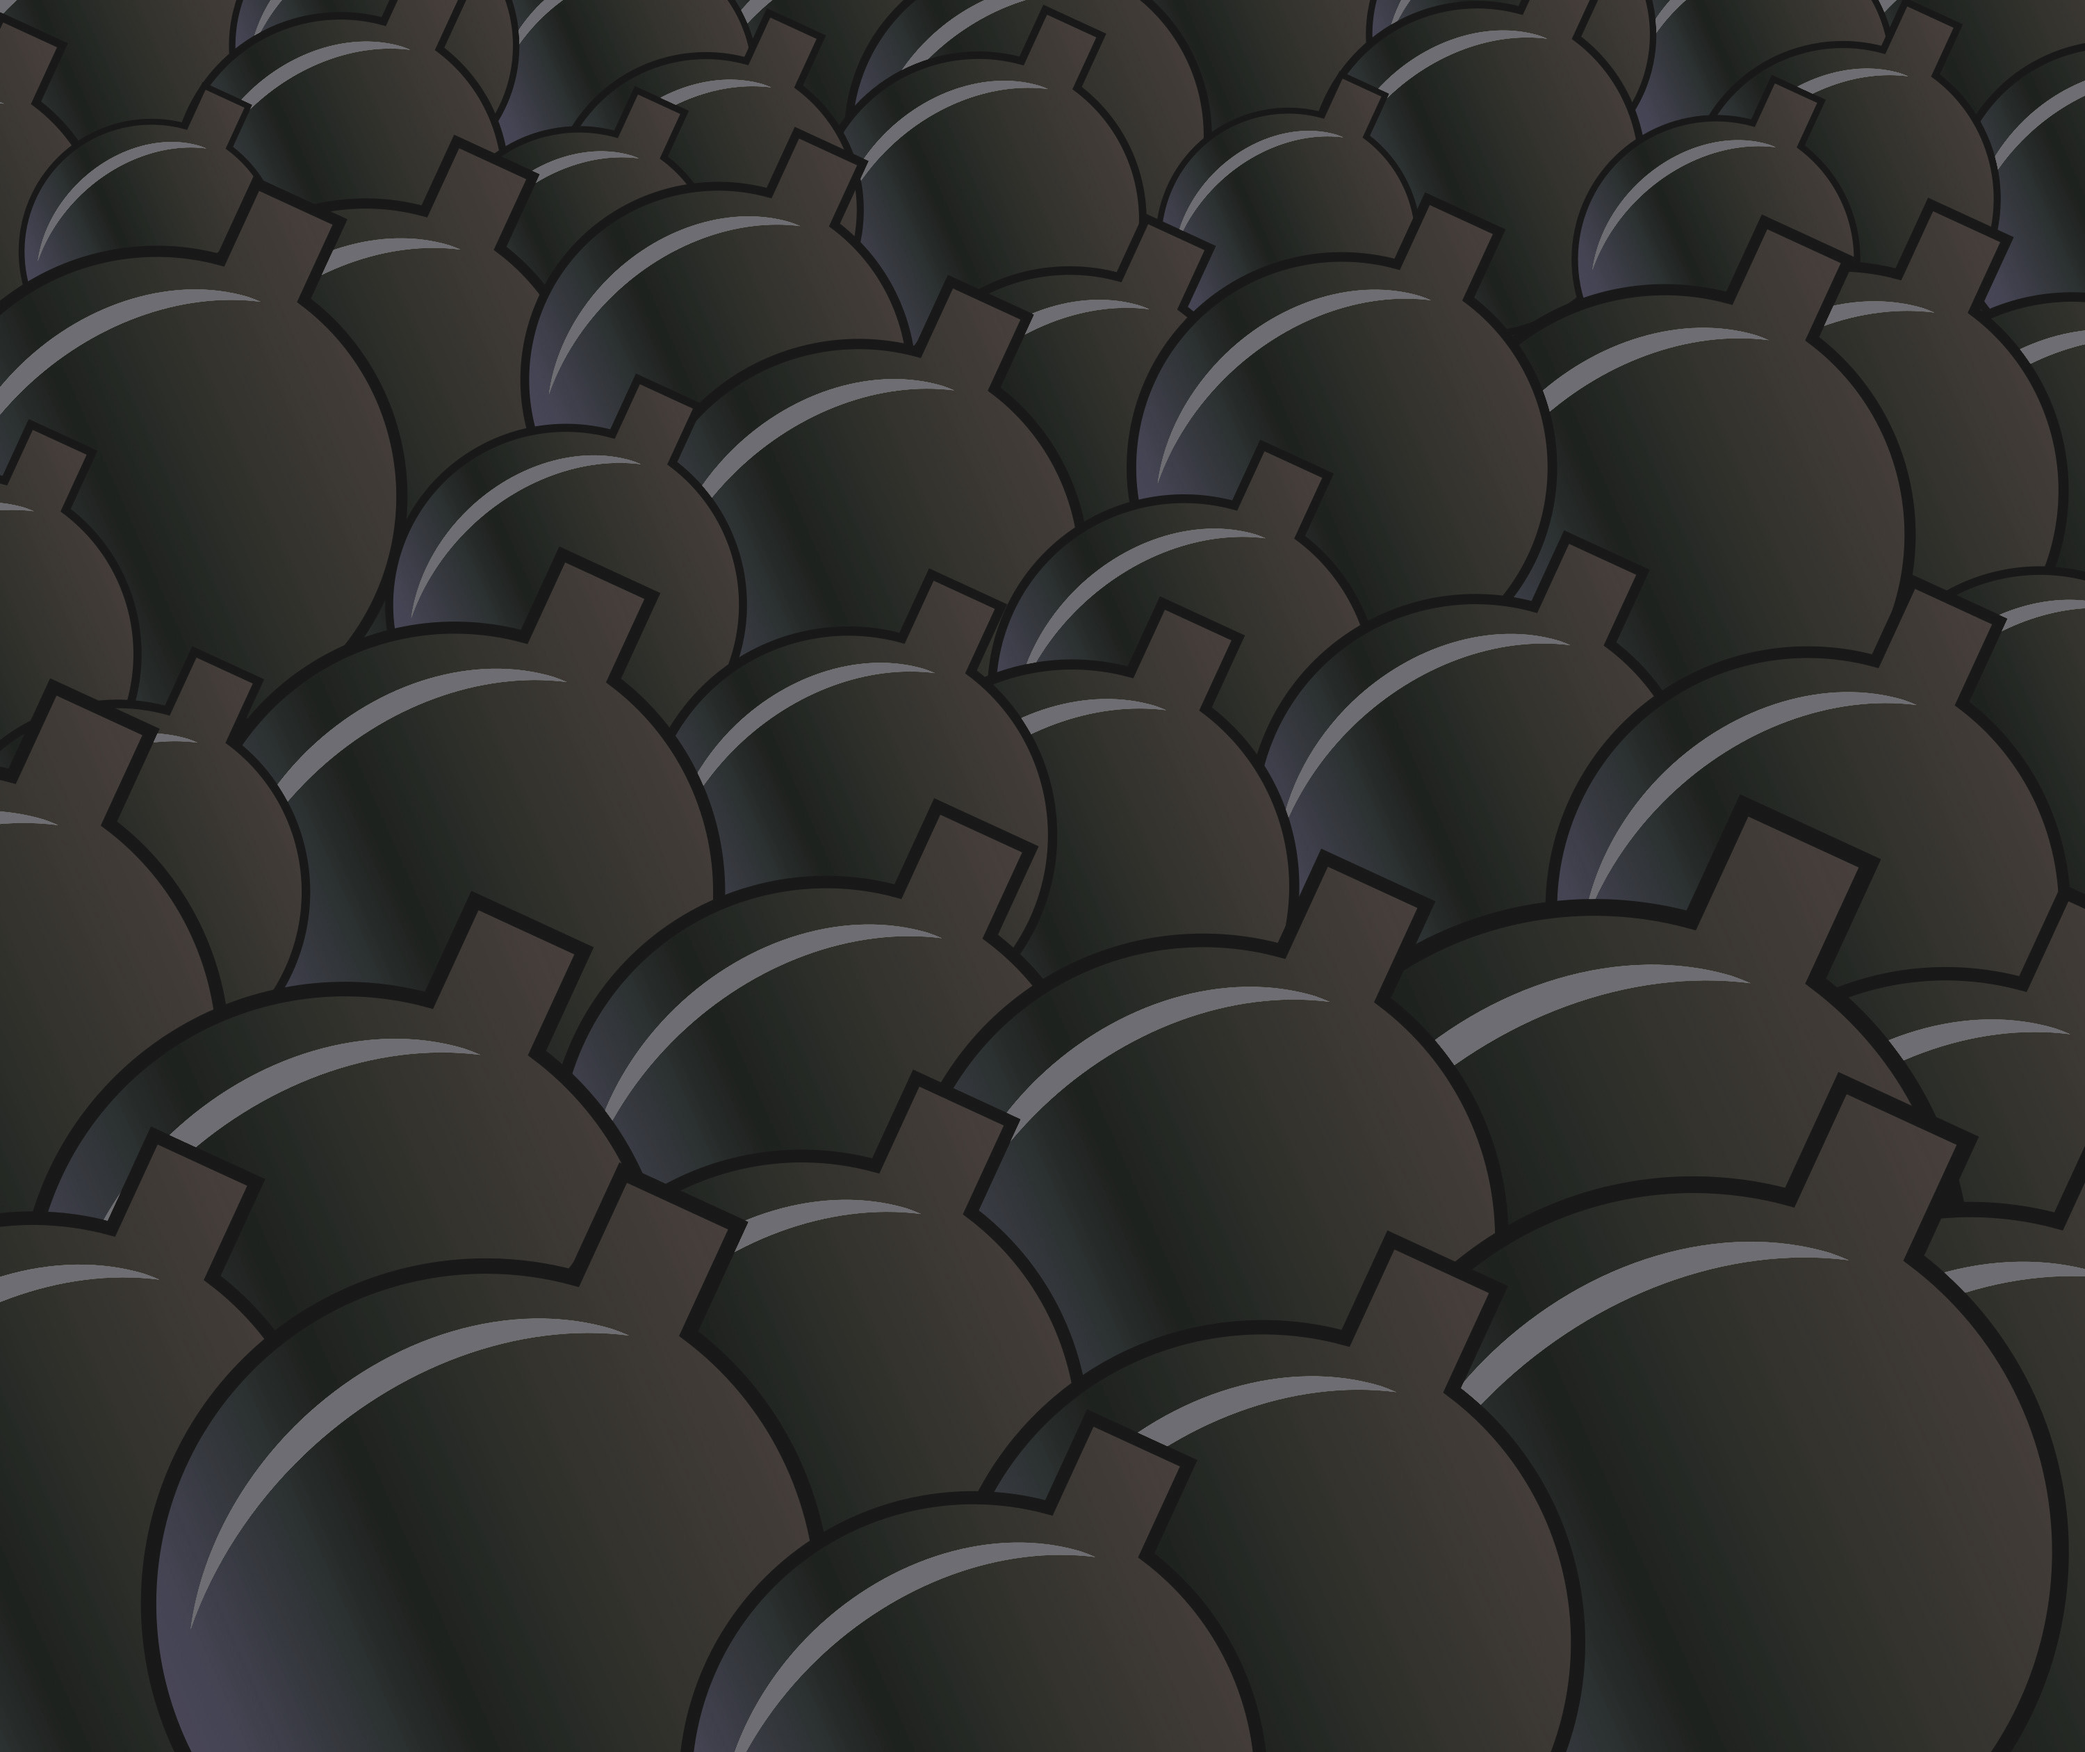
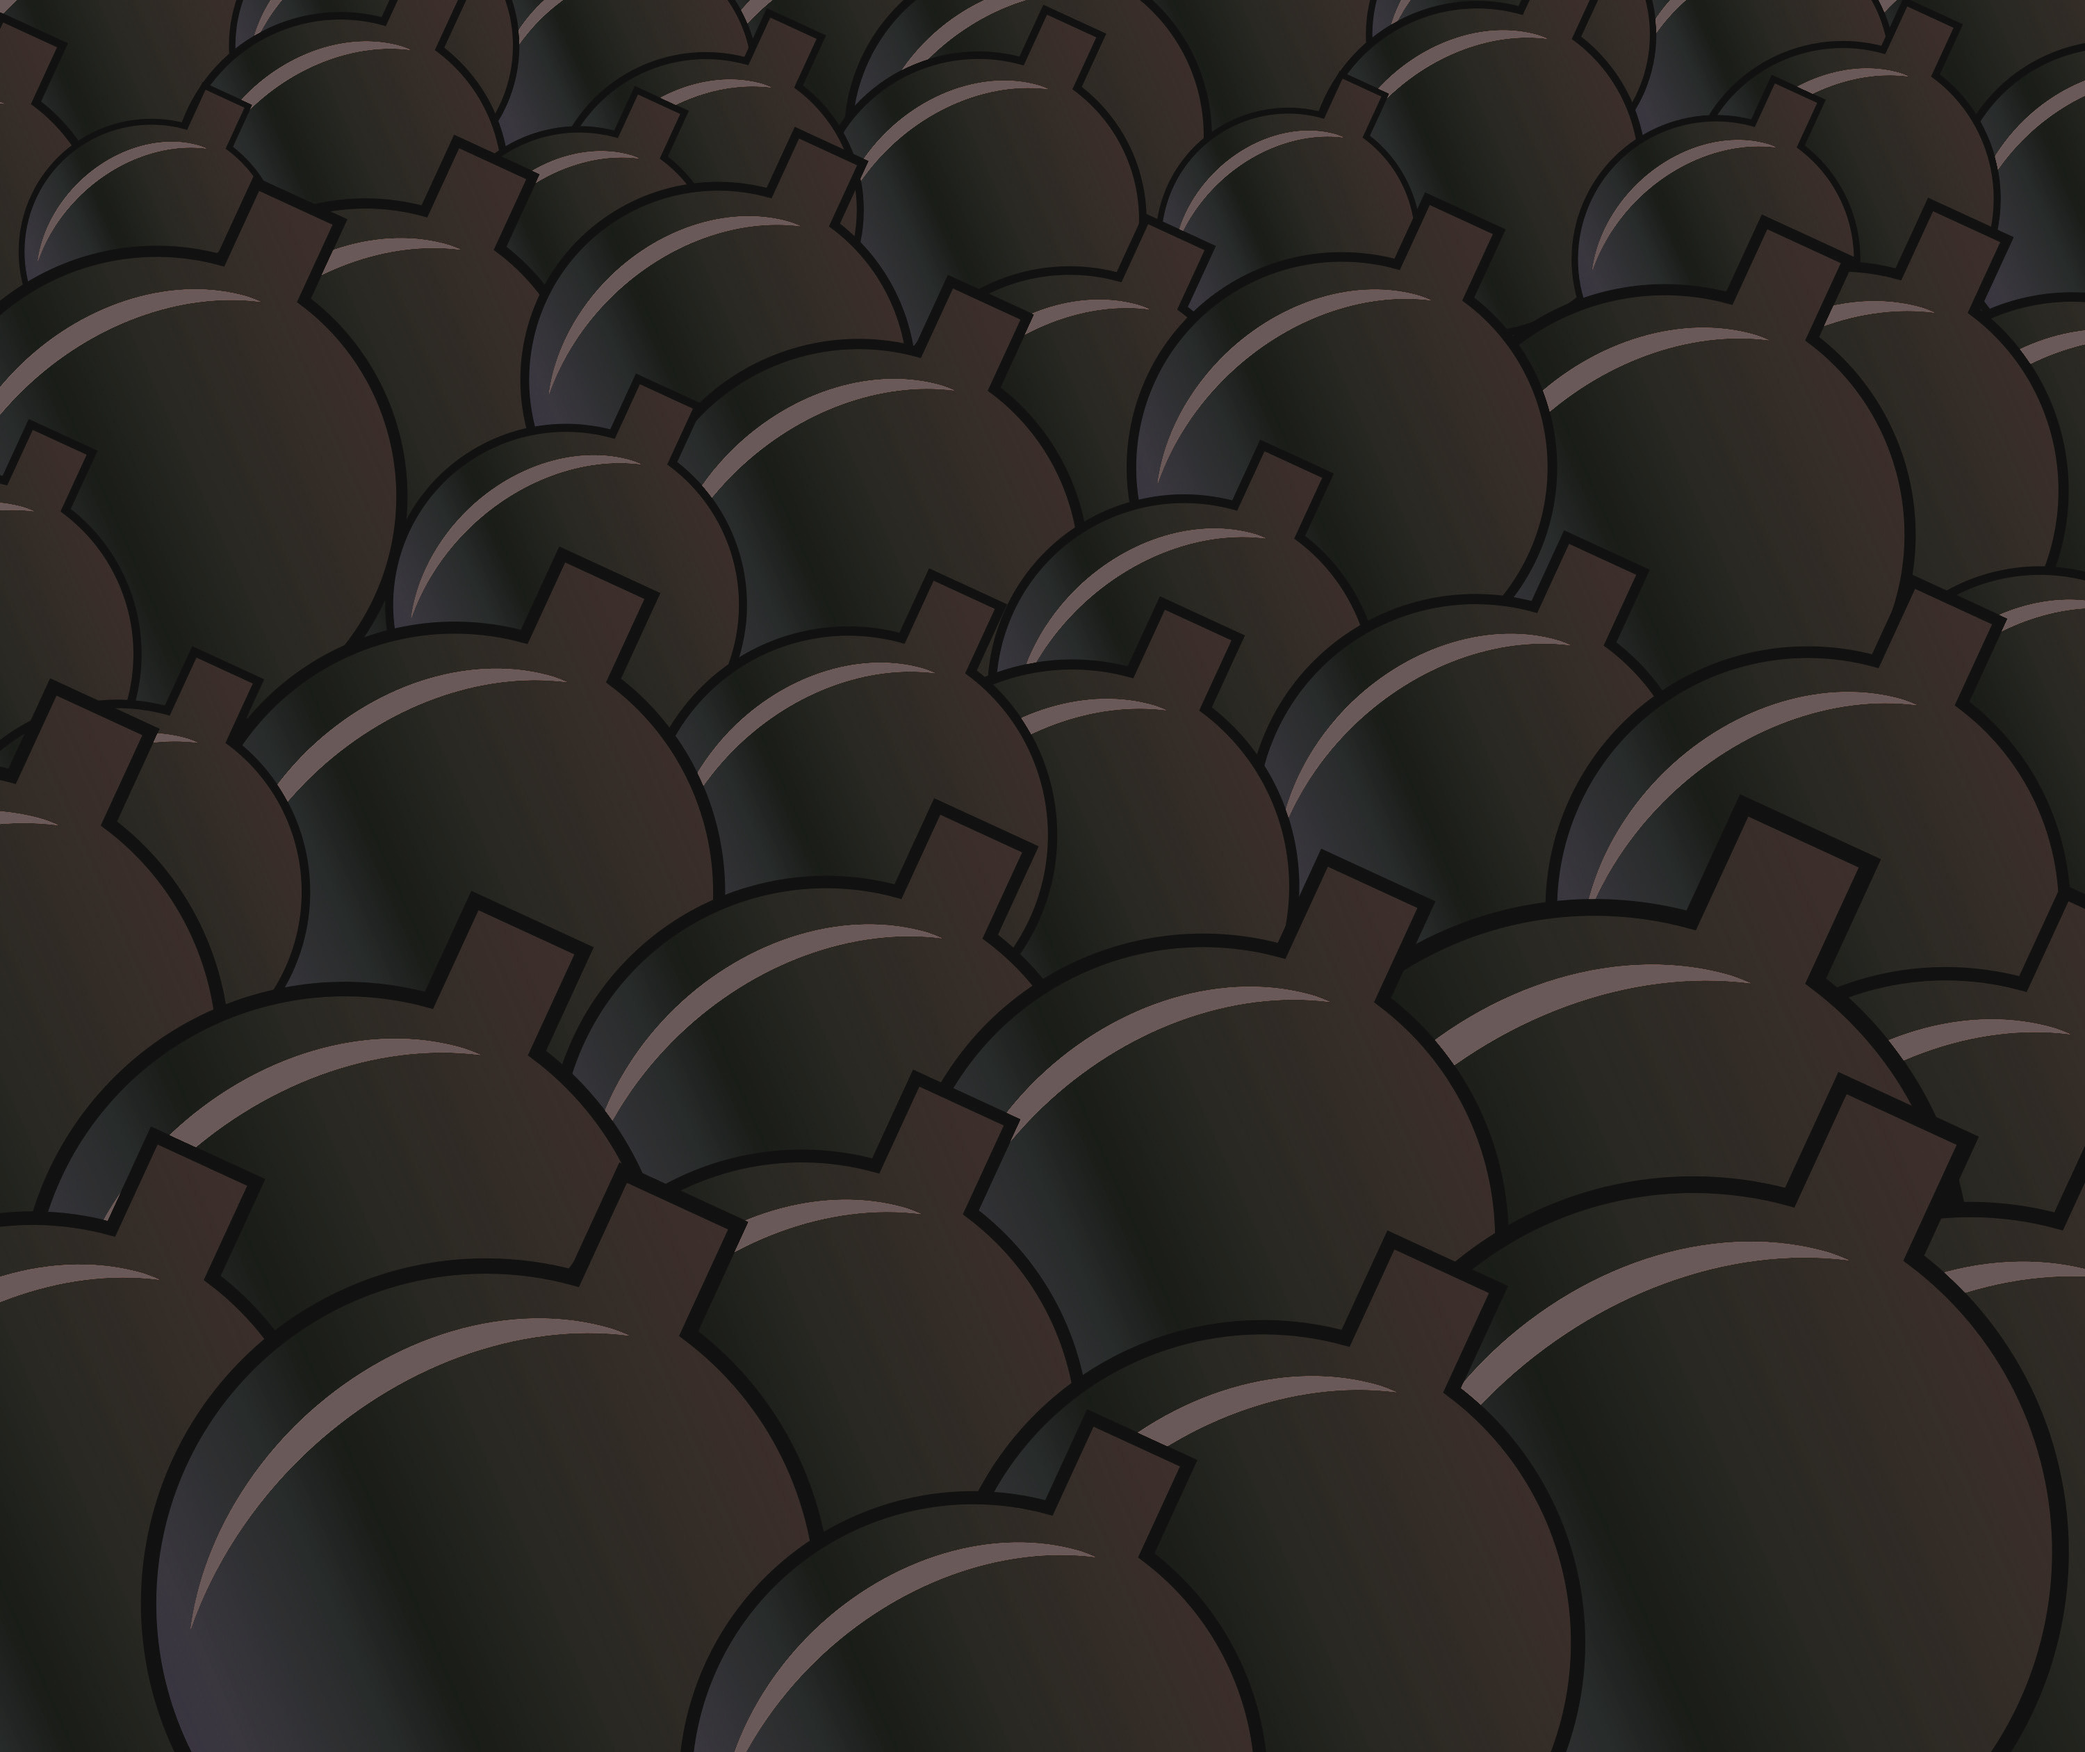
adjustments

diff --git a/public/preload.css b/public/preload.css
@@ -12,7 +12,7 @@
 #preload-solidwall { background-image: url("assets/images/solidwall.svg"); }
 #preload-weakwall02 { background-image: url("assets/images/weakwall02.svg"); }
 #preload-bluegrass { background-image: url("assets/images/bluegrass.jpg"); }
-#preload-darkground01 { background-image: url("assets/images/darkground01.jpg"); }
+#preload-darkground02 { background-image: url("assets/images/darkground02.jpg"); }
 #preload-darkviolet { background-image: url("assets/images/darkviolet.jpg"); }
 #preload-bear-green-left-iv { background-image: url("assets/images/bear-green-left-iv.png"); }
 #preload-bear-green-left { background-image: url("assets/images/bear-green-left.png"); }

diff --git a/public/index.html b/public/index.html
@@ -24,7 +24,7 @@
         <div id="preload-weakwall02"></div>
         <div id="preload-bluegrass"></div>
         <div id="preload-darkviolet"></div>
-        <div id="preload-darkground01"></div>
+        <div id="preload-darkground02"></div>
         <div id="preload-bear-green-left-iv"></div>
         <div id="preload-bear-green-left"></div>
         <div id="preload-bear-green-right-iv"></div>

diff --git a/public/style.css b/public/style.css
@@ -29,7 +29,7 @@ body {
   margin: 70px 50px 70px 50px;
   /* background-image: url("assets/images/bluegrass.jpg"); */
   /* background-image: url("assets/images/darkviolet.jpg"); */
-  background-image: url("assets/images/darkground01.jpg");
+  background-image: url("assets/images/darkground02.jpg");
 }
 
 /* Retro orange */
